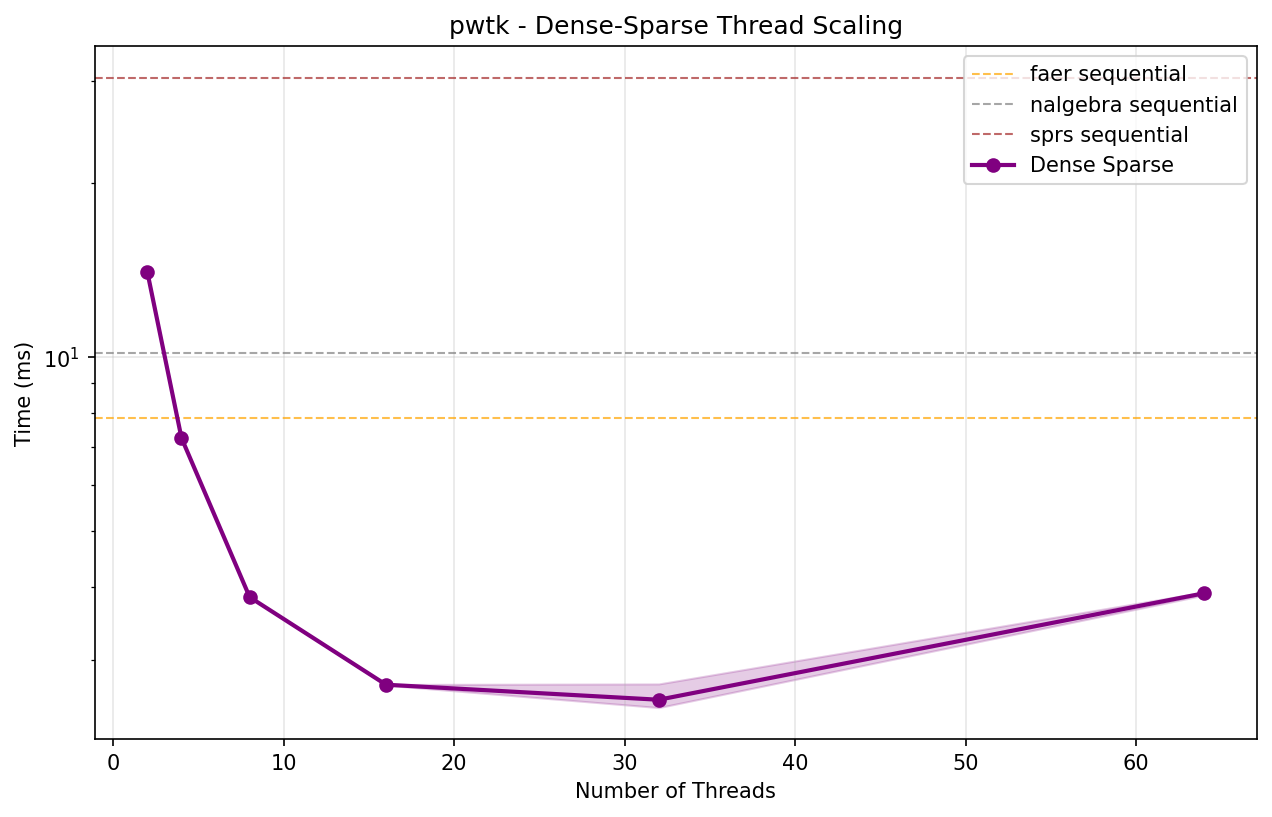
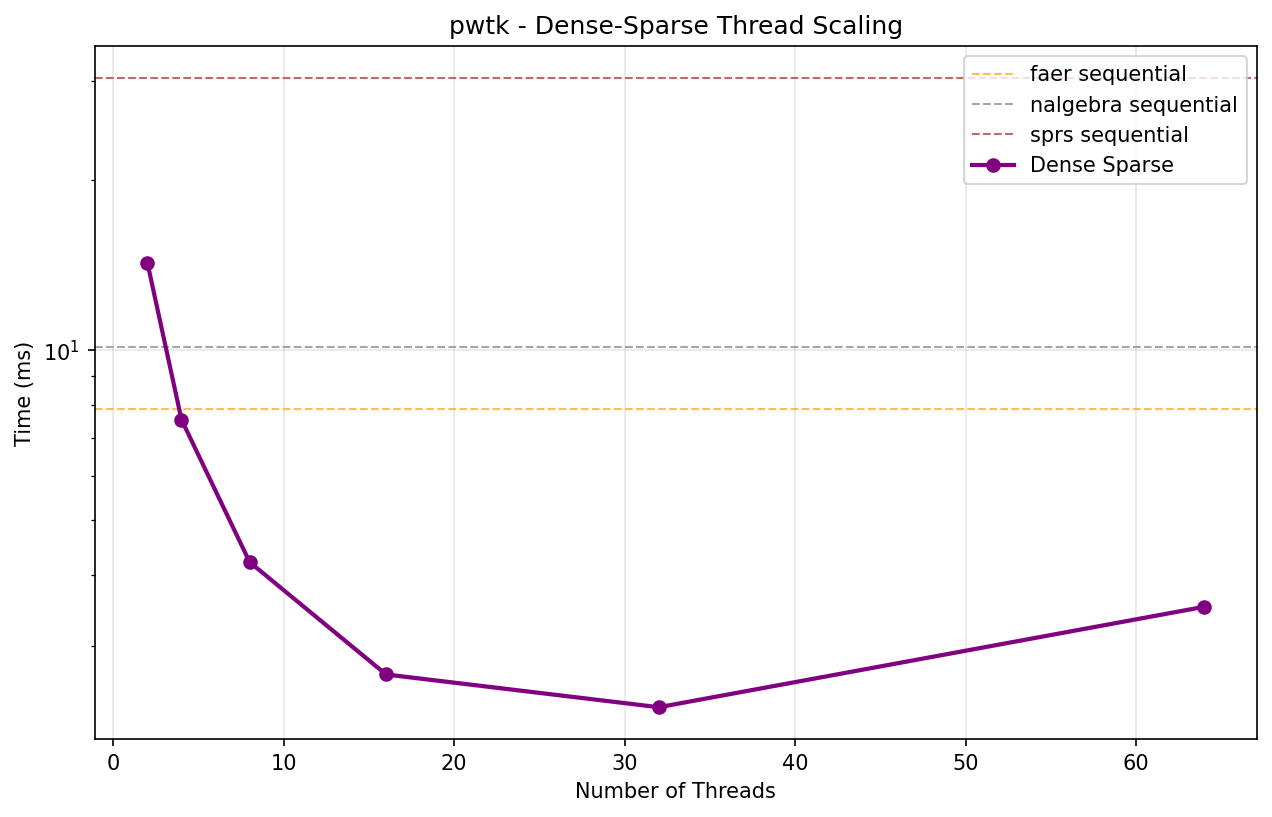
ran benchmarks after tournament tree

Changed region(s): [[0.092, 0.3672, 0.9811, 0.8874], [0.092, 0.306, 0.1226, 0.3672], [0.0307, 0.4284, 0.0613, 0.459]]

diff --git a/BENCHMARK_RESULTS.md b/BENCHMARK_RESULTS.md
@@ -57,77 +57,77 @@
 
 | Matrix | Dimensions | Non-zeros | 2 Threads | 4 Threads | 8 Threads | 16 Threads | 32 Threads | 64 Threads |
 |--------|------------|-----------|-----------:|-----------:|-----------:|-----------:|-----------:|-----------:|
-| **anisotropy_3d_1r** | 84315x84315 | 1,373,557 | **1.178 ms** | 1.720 ms | 2.656 ms | 5.182 ms | 9.358 ms | 17.568 ms |
-| **boneS01_M** | 127224x127224 | 2,238,384 | 1.961 ms | **1.396 ms** | 3.301 ms | 7.596 ms | 13.079 ms | 25.181 ms |
-| **boneS01** | 127224x127224 | 5,516,602 | 3.022 ms | **2.807 ms** | 4.123 ms | 5.961 ms | 13.190 ms | 25.248 ms |
-| **Ga3As3H12** | 61349x61349 | 5,970,947 | 3.561 ms | **2.182 ms** | 2.791 ms | 4.431 ms | 7.841 ms | 14.329 ms |
-| **rajat30** | 643994x643994 | 6,175,244 | **5.997 ms** | 9.613 ms | 12.934 ms | 22.932 ms | 53.521 ms | 84.133 ms |
-| **m_t1** | 97578x97578 | 9,753,570 | 4.197 ms | **2.225 ms** | 4.182 ms | 6.611 ms | 11.292 ms | 20.615 ms |
-| **anisotropy_3d_2r** | 650621x650621 | 10,895,827 | **8.913 ms** | 10.466 ms | 16.218 ms | 29.897 ms | 58.631 ms | 96.402 ms |
-| **SiO2** | 155331x155331 | 11,283,503 | 5.102 ms | **3.433 ms** | 4.590 ms | 10.145 ms | 17.102 ms | 31.181 ms |
-| **pwtk** | 217918x217918 | 11,524,432 | 5.671 ms | **5.162 ms** | 7.297 ms | 12.558 ms | 22.406 ms | 40.955 ms |
-| **anisotropy_2d** | 1313281x1313281 | 11,763,231 | **14.165 ms** | 14.981 ms | 25.664 ms | 49.752 ms | 82.302 ms | 103.043 ms |
-| **kkt_power** | 2063494x2063494 | 12,771,361 | **20.019 ms** | 24.895 ms | 42.751 ms | 74.293 ms | 137.086 ms | 146.277 ms |
-| **crankseg_2** | 63838x63838 | 14,148,858 | 5.365 ms | **3.471 ms** | 3.649 ms | 5.083 ms | 9.216 ms | 15.423 ms |
-| **Freescale2** | 2999349x2999349 | 14,313,235 | **22.957 ms** | 35.872 ms | 46.448 ms | 78.706 ms | 117.297 ms | 149.274 ms |
-| **spe10_0** | 1159366x1159366 | 28,730,252 | **14.514 ms** | 14.654 ms | 30.533 ms | 53.896 ms | 90.757 ms | 127.551 ms |
+| **anisotropy_3d_1r** | 84315x84315 | 1,373,557 | **1.423 ms** | 1.608 ms | 1.846 ms | 5.183 ms | 9.425 ms | 18.056 ms |
+| **boneS01_M** | 127224x127224 | 2,238,384 | **1.681 ms** | 2.391 ms | 1.773 ms | 6.652 ms | 13.074 ms | 25.180 ms |
+| **boneS01** | 127224x127224 | 5,516,602 | 3.007 ms | **1.706 ms** | 2.527 ms | 5.996 ms | 13.173 ms | 25.150 ms |
+| **Ga3As3H12** | 61349x61349 | 5,970,947 | 2.741 ms | **1.618 ms** | 1.724 ms | 3.902 ms | 7.232 ms | 14.017 ms |
+| **rajat30** | 643994x643994 | 6,175,244 | 10.083 ms | **9.675 ms** | 16.204 ms | 23.940 ms | 47.405 ms | 73.078 ms |
+| **m_t1** | 97578x97578 | 9,753,570 | 4.136 ms | **2.183 ms** | 2.780 ms | 5.144 ms | 10.499 ms | 20.418 ms |
+| **anisotropy_3d_2r** | 650621x650621 | 10,895,827 | **10.203 ms** | 11.030 ms | 17.117 ms | 31.243 ms | 48.747 ms | 74.118 ms |
+| **SiO2** | 155331x155331 | 11,283,503 | 5.544 ms | **4.500 ms** | 4.505 ms | 8.091 ms | 15.693 ms | 29.410 ms |
+| **pwtk** | 217918x217918 | 11,524,432 | 5.669 ms | **4.869 ms** | 5.845 ms | 9.560 ms | 21.260 ms | 37.996 ms |
+| **anisotropy_2d** | 1313281x1313281 | 11,763,231 | **15.992 ms** | 17.215 ms | 29.596 ms | 46.397 ms | 67.757 ms | 87.176 ms |
+| **kkt_power** | 2063494x2063494 | 12,771,361 | **18.571 ms** | 24.969 ms | 42.206 ms | 58.943 ms | 89.364 ms | 103.787 ms |
+| **crankseg_2** | 63838x63838 | 14,148,858 | 5.502 ms | 3.638 ms | **2.830 ms** | 4.048 ms | 7.805 ms | 14.608 ms |
+| **Freescale2** | 2999349x2999349 | 14,313,235 | **24.630 ms** | 33.728 ms | 52.137 ms | 69.512 ms | 86.582 ms | 106.590 ms |
+| **spe10_0** | 1159366x1159366 | 28,730,252 | **17.520 ms** | 17.672 ms | 27.545 ms | 43.047 ms | 67.635 ms | 85.963 ms |
 
 # Parallel Thread Scaling Results - Sparse-Dense Multiplication (`merge`)
 
 | Matrix | Dimensions | Non-zeros | 2 Threads | 4 Threads | 8 Threads | 16 Threads | 32 Threads | 64 Threads |
 |--------|------------|-----------|-----------:|-----------:|-----------:|-----------:|-----------:|-----------:|
-| **anisotropy_3d_1r** | 84315x84315 | 1,373,557 | 54.988 ms | 25.422 ms | 12.013 ms | 6.199 ms | **3.448 ms** | 3.916 ms |
-| **boneS01_M** | 127224x127224 | 2,238,384 | 91.268 ms | 42.853 ms | 20.720 ms | 9.289 ms | 5.017 ms | **4.844 ms** |
-| **boneS01** | 127224x127224 | 5,516,602 | 207.268 ms | 100.250 ms | 49.727 ms | 21.554 ms | 9.779 ms | **8.010 ms** |
-| **Ga3As3H12** | 61349x61349 | 5,970,947 | 214.178 ms | 107.415 ms | 54.199 ms | 25.470 ms | 12.949 ms | **8.547 ms** |
-| **rajat30** | 643994x643994 | 6,175,244 | 324.679 ms | 163.944 ms | 79.630 ms | 37.329 ms | 17.760 ms | **10.933 ms** |
-| **m_t1** | 97578x97578 | 9,753,570 | 308.541 ms | 147.070 ms | 69.212 ms | 31.976 ms | 14.460 ms | **11.001 ms** |
-| **anisotropy_3d_2r** | 650621x650621 | 10,895,827 | 763.200 ms | 396.475 ms | 184.848 ms | 82.039 ms | 33.419 ms | **20.768 ms** |
-| **SiO2** | 155331x155331 | 11,283,503 | 465.002 ms | 259.337 ms | 141.368 ms | 61.007 ms | 27.714 ms | **15.597 ms** |
-| **pwtk** | 217918x217918 | 11,524,432 | 377.989 ms | 180.444 ms | 88.143 ms | 42.375 ms | 19.234 ms | **12.403 ms** |
-| **anisotropy_2d** | 1313281x1313281 | 11,763,231 | 809.425 ms | 361.456 ms | 181.007 ms | 77.541 ms | 35.789 ms | **24.168 ms** |
-| **kkt_power** | 2063494x2063494 | 12,771,361 | 975.454 ms | 483.624 ms | 240.553 ms | 109.980 ms | 49.125 ms | **26.578 ms** |
-| **crankseg_2** | 63838x63838 | 14,148,858 | 499.170 ms | 234.328 ms | 107.159 ms | 50.480 ms | 22.448 ms | **15.361 ms** |
-| **Freescale2** | 2999349x2999349 | 14,313,235 | 1037.336 ms | 503.427 ms | 265.761 ms | 128.639 ms | 59.558 ms | **35.372 ms** |
-| **spe10_0** | 1159366x1159366 | 28,730,252 | 1437.739 ms | 705.445 ms | 346.115 ms | 155.297 ms | 69.582 ms | **44.990 ms** |
+| **anisotropy_3d_1r** | 84315x84315 | 1,373,557 | 46.027 ms | 23.698 ms | 13.013 ms | 6.901 ms | **4.272 ms** | 4.636 ms |
+| **boneS01_M** | 127224x127224 | 2,238,384 | 64.197 ms | 33.244 ms | 16.235 ms | 8.315 ms | **5.087 ms** | 5.173 ms |
+| **boneS01** | 127224x127224 | 5,516,602 | 157.532 ms | 79.794 ms | 41.545 ms | 19.376 ms | 9.325 ms | **8.196 ms** |
+| **Ga3As3H12** | 61349x61349 | 5,970,947 | 160.232 ms | 80.540 ms | 44.760 ms | 20.114 ms | 10.431 ms | **8.175 ms** |
+| **rajat30** | 643994x643994 | 6,175,244 | 240.665 ms | 124.560 ms | 65.830 ms | 37.869 ms | 17.760 ms | **10.933 ms** |
+| **m_t1** | 97578x97578 | 9,753,570 | 210.737 ms | 104.975 ms | 52.912 ms | 26.032 ms | 12.509 ms | **8.999 ms** |
+| **anisotropy_3d_2r** | 650621x650621 | 10,895,827 | 572.074 ms | 319.229 ms | 154.326 ms | 71.736 ms | 34.607 ms | **26.129 ms** |
+| **SiO2** | 155331x155331 | 11,283,503 | 345.297 ms | 188.814 ms | 108.915 ms | 49.170 ms | 23.056 ms | **13.946 ms** |
+| **pwtk** | 217918x217918 | 11,524,432 | 285.287 ms | 141.688 ms | 70.195 ms | 36.262 ms | 17.371 ms | **11.454 ms** |
+| **anisotropy_2d** | 1313281x1313281 | 11,763,231 | 507.598 ms | 248.342 ms | 130.764 ms | 68.589 ms | 39.184 ms | **29.473 ms** |
+| **kkt_power** | 2063494x2063494 | 12,771,361 | 716.679 ms | 377.466 ms | 203.521 ms | 104.020 ms | 59.304 ms | **42.749 ms** |
+| **crankseg_2** | 63838x63838 | 14,148,858 | 348.770 ms | 171.245 ms | 81.409 ms | 40.826 ms | 19.112 ms | **12.937 ms** |
+| **Freescale2** | 2999349x2999349 | 14,313,235 | 771.096 ms | 402.567 ms | 232.167 ms | 127.058 ms | 76.204 ms | **56.456 ms** |
+| **spe10_0** | 1159366x1159366 | 28,730,252 | 925.878 ms | 469.055 ms | 240.338 ms | 115.942 ms | 59.656 ms | **45.178 ms** |
 
 # Parallel Thread Scaling Results - Sparse-Dense Multiplication (`buffer_foreign`)
 
 | Matrix | Dimensions | Non-zeros | 2 Threads | 4 Threads | 8 Threads | 16 Threads | 32 Threads | 64 Threads |
 |--------|------------|-----------|-----------:|-----------:|-----------:|-----------:|-----------:|-----------:|
-| **anisotropy_3d_1r** | 84315x84315 | 1,373,557 | **5.217 ms** | 8.547 ms | 12.008 ms | 19.141 ms | 30.407 ms | 54.323 ms |
-| **boneS01_M** | 127224x127224 | 2,238,384 | **4.250 ms** | 4.619 ms | 7.074 ms | 22.370 ms | 35.602 ms | 58.183 ms |
-| **boneS01** | 127224x127224 | 5,516,602 | 8.231 ms | **7.301 ms** | 9.288 ms | 27.443 ms | 43.519 ms | 71.422 ms |
-| **Ga3As3H12** | 61349x61349 | 5,970,947 | 15.222 ms | **14.338 ms** | 21.751 ms | 31.832 ms | 45.051 ms | 75.867 ms |
+| **anisotropy_3d_1r** | 84315x84315 | 1,373,557 | **5.187 ms** | 8.057 ms | 11.470 ms | 17.145 ms | 26.927 ms | 46.329 ms |
+| **boneS01_M** | 127224x127224 | 2,238,384 | 4.530 ms | **4.513 ms** | 6.458 ms | 19.787 ms | 31.899 ms | 50.437 ms |
+| **boneS01** | 127224x127224 | 5,516,602 | 8.865 ms | **7.305 ms** | 8.704 ms | 24.397 ms | 39.757 ms | 62.088 ms |
+| **Ga3As3H12** | 61349x61349 | 5,970,947 | **14.292 ms** | 15.582 ms | 23.906 ms | 30.534 ms | 41.935 ms | 67.292 ms |
 | **rajat30** | 643994x643994 | 6,175,244 | **15.256 ms** | 16.779 ms | 25.734 ms | 35.870 ms | 50.078 ms | 77.418 ms |
-| **m_t1** | 97578x97578 | 9,753,570 | **13.958 ms** | 21.972 ms | 20.675 ms | 35.569 ms | 49.169 ms | 77.567 ms |
-| **anisotropy_3d_2r** | 650621x650621 | 10,895,827 | 36.017 ms | 26.440 ms | **23.749 ms** | 33.898 ms | 57.569 ms | 85.504 ms |
-| **SiO2** | 155331x155331 | 11,283,503 | **27.374 ms** | 28.446 ms | 34.292 ms | 35.238 ms | 54.773 ms | 87.364 ms |
-| **pwtk** | 217918x217918 | 11,524,432 | 18.436 ms | **15.642 ms** | 21.232 ms | 34.602 ms | 55.471 ms | 83.504 ms |
-| **anisotropy_2d** | 1313281x1313281 | 11,763,231 | 41.995 ms | 31.409 ms | **25.156 ms** | 35.812 ms | 54.192 ms | 88.255 ms |
-| **kkt_power** | 2063494x2063494 | 12,771,361 | 58.550 ms | **36.908 ms** | 37.834 ms | 38.576 ms | 55.739 ms | 89.464 ms |
-| **crankseg_2** | 63838x63838 | 14,148,858 | 32.904 ms | **29.583 ms** | 29.953 ms | 37.467 ms | 54.488 ms | 81.432 ms |
-| **Freescale2** | 2999349x2999349 | 14,313,235 | 66.778 ms | 38.397 ms | **30.730 ms** | 38.892 ms | 54.815 ms | 87.399 ms |
-| **spe10_0** | 1159366x1159366 | 28,730,252 | 38.327 ms | 23.532 ms | **19.437 ms** | 42.973 ms | 71.386 ms | 102.811 ms |
+| **m_t1** | 97578x97578 | 9,753,570 | **13.226 ms** | 21.198 ms | 19.711 ms | 33.413 ms | 43.010 ms | 69.144 ms |
+| **anisotropy_3d_2r** | 650621x650621 | 10,895,827 | 38.050 ms | 26.701 ms | **23.158 ms** | 32.248 ms | 50.332 ms | 76.106 ms |
+| **SiO2** | 155331x155331 | 11,283,503 | **27.920 ms** | 28.469 ms | 30.985 ms | 34.166 ms | 49.020 ms | 75.510 ms |
+| **pwtk** | 217918x217918 | 11,524,432 | 19.879 ms | **18.614 ms** | 20.794 ms | 32.077 ms | 46.124 ms | 71.367 ms |
+| **anisotropy_2d** | 1313281x1313281 | 11,763,231 | 43.877 ms | 31.413 ms | **26.757 ms** | 34.402 ms | 48.894 ms | 76.011 ms |
+| **kkt_power** | 2063494x2063494 | 12,771,361 | 69.628 ms | 47.323 ms | 38.422 ms | **34.839 ms** | 49.889 ms | 78.684 ms |
+| **crankseg_2** | 63838x63838 | 14,148,858 | 34.242 ms | **27.193 ms** | 28.772 ms | 35.958 ms | 46.926 ms | 72.506 ms |
+| **Freescale2** | 2999349x2999349 | 14,313,235 | 66.203 ms | 38.933 ms | **30.083 ms** | 36.412 ms | 50.059 ms | 76.614 ms |
+| **spe10_0** | 1159366x1159366 | 28,730,252 | 42.254 ms | 25.966 ms | **22.690 ms** | 41.291 ms | 61.848 ms | 80.971 ms |
 
 # Parallel Thread Scaling Results - Dense-Sparse Multiplication (`dense_sparse`)
 
 | Matrix | Dimensions | Non-zeros | 2 Threads | 4 Threads | 8 Threads | 16 Threads | 32 Threads | 64 Threads |
 |--------|------------|-----------|-----------:|-----------:|-----------:|-----------:|-----------:|-----------:|
-| **anisotropy_3d_1r** | 84315x84315 | 1,373,557 | 1.555 ms | 892.46 µs | **621.84 µs** | 637.06 µs | 1.162 ms | 2.496 ms |
-| **boneS01_M** | 127224x127224 | 2,238,384 | 2.337 ms | 1.327 ms | 879.83 µs | **794.14 µs** | 1.278 ms | 2.602 ms |
-| **boneS01** | 127224x127224 | 5,516,602 | 6.490 ms | 3.391 ms | 1.911 ms | **1.367 ms** | 1.903 ms | 2.770 ms |
-| **Ga3As3H12** | 61349x61349 | 5,970,947 | 8.916 ms | 4.729 ms | 2.508 ms | **1.575 ms** | 1.721 ms | 2.903 ms |
+| **anisotropy_3d_1r** | 84315x84315 | 1,373,557 | 1.560 ms | 983.67 µs | **704.19 µs** | 739.36 µs | 1.356 ms | 2.772 ms |
+| **boneS01_M** | 127224x127224 | 2,238,384 | 2.445 ms | 1.449 ms | 980.10 µs | **870.85 µs** | 1.518 ms | 2.914 ms |
+| **boneS01** | 127224x127224 | 5,516,602 | 6.639 ms | 3.589 ms | 2.033 ms | **1.393 ms** | 1.762 ms | 3.064 ms |
+| **Ga3As3H12** | 61349x61349 | 5,970,947 | 8.799 ms | 4.752 ms | 2.554 ms | **1.555 ms** | 1.597 ms | 2.928 ms |
 | **rajat30** | 643994x643994 | 6,175,244 | 8.468 ms | 5.518 ms | 3.365 ms | **2.955 ms** | 3.220 ms | 3.951 ms |
-| **m_t1** | 97578x97578 | 9,753,570 | 13.865 ms | 7.096 ms | 3.728 ms | 2.328 ms | **2.051 ms** | 3.583 ms |
-| **anisotropy_3d_2r** | 650621x650621 | 10,895,827 | 12.032 ms | 6.786 ms | 4.266 ms | **3.933 ms** | 4.428 ms | 5.069 ms |
-| **SiO2** | 155331x155331 | 11,283,503 | 15.575 ms | 8.803 ms | 4.634 ms | 3.081 ms | **2.385 ms** | 3.979 ms |
-| **pwtk** | 217918x217918 | 11,524,432 | 13.999 ms | 7.244 ms | 3.847 ms | 2.715 ms | **2.558 ms** | 3.907 ms |
-| **anisotropy_2d** | 1313281x1313281 | 11,763,231 | 14.197 ms | 8.632 ms | **6.477 ms** | 6.607 ms | 6.871 ms | 7.287 ms |
-| **kkt_power** | 2063494x2063494 | 12,771,361 | 19.783 ms | 13.270 ms | 10.055 ms | **9.447 ms** | 10.223 ms | 10.924 ms |
-| **crankseg_2** | 63838x63838 | 14,148,858 | 22.046 ms | 11.282 ms | 5.743 ms | 3.229 ms | **2.438 ms** | 3.779 ms |
-| **Freescale2** | 2999349x2999349 | 14,313,235 | 25.521 ms | 17.482 ms | 14.631 ms | **14.065 ms** | 16.918 ms | 17.668 ms |
-| **spe10_0** | 1159366x1159366 | 28,730,252 | 30.893 ms | 17.045 ms | 9.942 ms | **8.649 ms** | 8.663 ms | 9.842 ms |
+| **m_t1** | 97578x97578 | 9,753,570 | 14.022 ms | 7.249 ms | 3.898 ms | 2.301 ms | **1.947 ms** | 3.154 ms |
+| **anisotropy_3d_2r** | 650621x650621 | 10,895,827 | 12.412 ms | 7.689 ms | 5.225 ms | 4.043 ms | **3.958 ms** | 5.088 ms |
+| **SiO2** | 155331x155331 | 11,283,503 | 15.683 ms | 9.011 ms | 4.834 ms | 2.845 ms | **2.197 ms** | 3.334 ms |
+| **pwtk** | 217918x217918 | 11,524,432 | 14.281 ms | 7.537 ms | 4.217 ms | 2.669 ms | **2.335 ms** | 3.516 ms |
+| **anisotropy_2d** | 1313281x1313281 | 11,763,231 | 14.627 ms | 10.489 ms | 8.403 ms | **7.146 ms** | 7.261 ms | 7.877 ms |
+| **kkt_power** | 2063494x2063494 | 12,771,361 | 20.987 ms | 16.328 ms | 11.260 ms | 10.064 ms | **9.534 ms** | 11.855 ms |
+| **crankseg_2** | 63838x63838 | 14,148,858 | 22.174 ms | 11.298 ms | 5.839 ms | 3.207 ms | **2.366 ms** | 3.264 ms |
+| **Freescale2** | 2999349x2999349 | 14,313,235 | 26.102 ms | 20.602 ms | 15.243 ms | 13.930 ms | **13.751 ms** | 15.512 ms |
+| **spe10_0** | 1159366x1159366 | 28,730,252 | 31.248 ms | 18.012 ms | 11.044 ms | 7.737 ms | **6.655 ms** | 7.586 ms |
 
 ## Thread Scaling Plots
 
@@ -259,21 +259,18 @@ Core(s) per socket:                   64
 Socket(s):                            1
 Stepping:                             1
 Frequency boost:                      enabled
-CPU(s) scaling MHz:                   78%
+CPU(s) scaling MHz:                   99%
 CPU max MHz:                          3718.0659
 CPU min MHz:                          1500.0000
-BogoMIPS:                             4892.78
-Flags:                                fpu vme de pse tsc msr pae mce cx8 apic sep mtrr pge mca cmov pat pse36 clflush mmx fxsr sse sse2 ht syscall nx mmxext fxsr_opt pdpe1gb rdtscp lm constant_tsc rep_good amd_lbr_v2 nopl nonstop_tsc cpuid extd_apicid aperfmperf rapl pni pclmulqdq monitor ssse3 fma cx16 pcid sse4_1 sse4_2 movbe popcnt aes xsave avx f16c rdrand lahf_lm cmp_legacy svm extapic cr8_legacy abm sse4a misalignsse 3dnowprefetch osvw ibs skinit wdt tce topoext perfctr_core perfctr_nb bpext perfctr_llc mwaitx cpb cat_l3 cdp_l3 hw_pstate ssbd mba perfmon_v2 ibrs ibpb stibp ibrs_enhanced vmmcall fsgsbase bmi1 avx2 smep bmi2 erms invpcid cqm rdt_a avx512f avx512dq rdseed adx smap avx512ifma clflushopt clwb avx512cd sha_ni avx512bw avx512vl xsaveopt xsavec xgetbv1 xsaves cqm_llc cqm_occup_llc cqm_mbm_total cqm_mbm_local avx512_bf16 clzero irperf xsaveerptr rdpru wbnoinvd amd_ppin cppc arat npt lbrv svm_lock nrip_save tsc_scale vmcb_clean flushbyasid decodeassists pausefilter pfthreshold avic v_vmsave_vmload vgif x2avic v_spec_ctrl vnmi avx512vbmi umip pku ospke avx512_vbmi2 gfni vaes vpclmulqdq avx512_vnni avx512_bitalg avx512_vpopcntdq la57 rdpid overflow_recov succor smca fsrm flush_l1d debug_swap
+BogoMIPS:                             4892.31
+Flags:                                fpu vme de pse tsc msr pae mce cx8 apic sep mtrr pge mca cmov pat pse36 clflush mmx fxsr sse sse2 ht syscall nx mmxext fxsr_opt pdpe1gb rdtscp lm constant_tsc rep_good amd_lbr_v2 nopl nonstop_tsc cpuid extd_apicid aperfmperf rapl pni pclmulqdq monitor ssse3 fma cx16 pcid sse4_1 sse4_2 x2apic movbe popcnt aes xsave avx f16c rdrand lahf_lm cmp_legacy svm extapic cr8_legacy abm sse4a misalignsse 3dnowprefetch osvw ibs skinit wdt tce topoext perfctr_core perfctr_nb bpext perfctr_llc mwaitx cpb cat_l3 cdp_l3 hw_pstate ssbd mba perfmon_v2 ibrs ibpb stibp ibrs_enhanced vmmcall fsgsbase bmi1 avx2 smep bmi2 erms invpcid cqm rdt_a avx512f avx512dq rdseed adx smap avx512ifma clflushopt clwb avx512cd sha_ni avx512bw avx512vl xsaveopt xsavec xgetbv1 xsaves cqm_llc cqm_occup_llc cqm_mbm_total cqm_mbm_local avx512_bf16 clzero irperf xsaveerptr rdpru wbnoinvd amd_ppin cppc arat npt lbrv svm_lock nrip_save tsc_scale vmcb_clean flushbyasid decodeassists pausefilter pfthreshold avic v_vmsave_vmload vgif x2avic v_spec_ctrl vnmi avx512vbmi umip pku ospke avx512_vbmi2 gfni vaes vpclmulqdq avx512_vnni avx512_bitalg avx512_vpopcntdq la57 rdpid overflow_recov succor smca fsrm flush_l1d debug_swap
 Virtualization:                       AMD-V
 L1d cache:                            2 MiB (64 instances)
 L1i cache:                            2 MiB (64 instances)
 L2 cache:                             64 MiB (64 instances)
 L3 cache:                             256 MiB (8 instances)
-NUMA node(s):                         4
-NUMA node0 CPU(s):                    0-15
-NUMA node1 CPU(s):                    16-31
-NUMA node2 CPU(s):                    32-47
-NUMA node3 CPU(s):                    48-63
+NUMA node(s):                         1
+NUMA node0 CPU(s):                    0-63
 Vulnerability Gather data sampling:   Not affected
 Vulnerability Itlb multihit:          Not affected
 Vulnerability L1tf:                   Not affected
